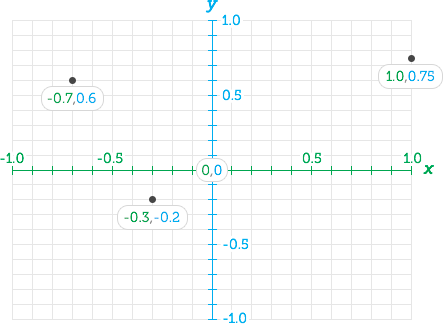
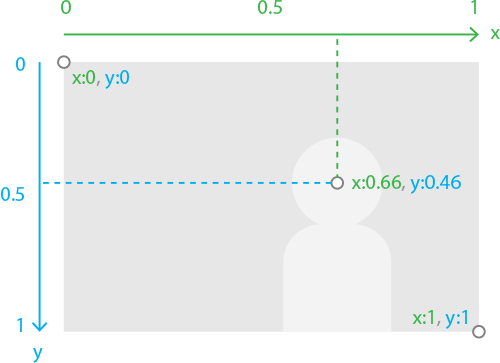
Updated docs, tweaked settings

diff --git a/js/jquery.focuspoint.min.js b/js/jquery.focuspoint.min.js
@@ -5,4 +5,4 @@
  * Copyright (c) 2014 - 2016 J. Menz; MIT License
  * @preserve
  */
-!function($,i,t,s){function e(i,t){this.element=i,this.settings=$.extend({},a,t),this.init()}var a={reCalcOnWindowResize:!0,setTransformOrigin:!0,gridOrigin:"left-top"},o=$(),n=17,c=function(i,t){var s=!1;return function(){var e=Array.prototype.slice.call(arguments,0);return s?!1:(s=!0,void setTimeout(function(){s=!1,i.apply(null,e)},t))}},r=function(){$(i).off("resize.focuspoint"),o.length&&(n>0?$(i).on("resize.focuspoint",c(function(){o.focusPoint("adjustFocus")},n)):$(i).on("resize.focuspoint",function(){o.focusPoint("adjustFocus")}))},h=function(i,t){return i-t};$.extend(e.prototype,{init:function(){if(this.$el=$(this.element),this.$image=this.$el.find("img").first(),this.imageW=this.$el.data("imageW"),this.imageH=this.$el.data("imageH"),this.imageRatio=this.imageW/this.imageH,!this.imageW&&!this.imageH)return this.resolveImageSize();var i=this;if($.each(["X","Y"],function(t,s){i["focus"+s]=String(i.$el.data("focus"+s)).split(","),$.each(i["focus"+s],function(t,e){i["focus"+s][t]=parseFloat(e.trim()),"center"===i.settings.gridOrigin&&("X"===s?i["focus"+s][t]=.5*(i["focus"+s][t]+1):i["focus"+s][t]=(i["focus"+s][t]-1)*-.5)}),i["focus"+s].length>1?(i["focus"+s].sort(h),i["focus"+s+"MinStart"]=i["focus"+s][0],i["focus"+s+"MinStop"]=i["focus"+s][1],i["focus"+s]=(i["focus"+s][0]+i["focus"+s][1])/2):i["focus"+s+"MinStart"]=i["focus"+s+"MinStop"]=i["focus"+s]=i["focus"+s][0],i["maxScaleRatio"+s]=1/(i["focus"+s+"MinStop"]-i["focus"+s+"MinStart"])}),this.settings.setTransformOrigin){var t=100*i.focusX+"% "+100*i.focusY+"%";this.$image.css({"webkit-transform-origin":t,"transform-origin":t})}this.$el.addClass("focuspoint-active"),this.adjustFocus(),this.settings.reCalcOnWindowResize&&this.windowOn()},resolveImageSize:function(){if(this.triedAutoResolution)return!1;this.triedAutoResolution=!0;var i=this.$el;$("<img />").one("load",function(){i.data("imageW",this.width),i.data("imageH",this.height),i.focusPoint("init")}).attr("src",this.$image.attr("src"))},windowOn:function(){o=o.add(this.element),r()},windowOff:function(){o=o.not(this.element),r()},setThrottleDuration:function(i){n=i,r()},adjustFocus:function(){var i={},t=!1;return i.containerW=this.$el.width(),i.containerH=this.$el.height(),i.containerW>0&&i.containerH>0&&this.imageW>0&&this.imageH>0?(i.containerRatio=i.containerW/i.containerH,i.scale=1,i.shiftPrimary=0,i.shiftSecondary=0,i.clippingAxis=!1,i.axisScale={X:this.imageRatio/i.containerRatio,Y:i.containerRatio/this.imageRatio},this.imageRatio>i.containerRatio?t=i.clippingAxis="X":this.imageRatio<i.containerRatio&&(t=i.clippingAxis="Y"),void(t?(this["maxScaleRatio"+t]&&i.axisScale[t]>this["maxScaleRatio"+t]?(i.scale=this["maxScaleRatio"+t]/i.axisScale[t],i.shiftSecondary=50*(1-i.scale)+"%",i.shiftPrimary=-100*this["focus"+t+"MinStart"]*i.axisScale[t]*i.scale+"%"):(i.shiftPrimary=.5-this["focus"+t]*i.axisScale[t],i.spareNeg=-1*(i.axisScale[t]-1),i.shiftPrimary>0?i.shiftPrimary=0:i.shiftPrimary<0&&i.shiftPrimary<i.spareNeg&&(i.shiftPrimary=i.spareNeg),i.shiftPrimary=100*i.shiftPrimary+"%"),this.$image.css("X"===t?"width":"height",i.axisScale[t]*i.scale*100+"%"),this.$image.css("X"===t?"height":"width",100*i.scale+"%"),this.$image.css("X"===t?"left":"top",i.shiftPrimary),this.$image.css("X"===t?"top":"left",i.shiftSecondary)):this.$image.css({width:"100%",height:"100%",left:0,top:0}))):!1}}),$.fn.focusPoint=function(i){return this.each(function(){$.data(this,"focusPoint")||$.data(this,"focusPoint",new e(this,i))}),"string"==typeof i?this.each(function(){var t=$(this);t.data("focusPoint")[i]()}):this}}(jQuery,window,document);
+!function($,i,t,s){function e(i,t){this.element=i,this.settings=$.extend({},a,t),this.init()}var a={reCalcOnWindowResize:!0,setTransformOrigin:!0,legacyGrid:!1},o=$(),n=17,c=function(i,t){var s=!1;return function(){var e=Array.prototype.slice.call(arguments,0);return s?!1:(s=!0,void setTimeout(function(){s=!1,i.apply(null,e)},t))}},r=function(){$(i).off("resize.focuspoint"),o.length&&(n>0?$(i).on("resize.focuspoint",c(function(){o.focusPoint("adjustFocus")},n)):$(i).on("resize.focuspoint",function(){o.focusPoint("adjustFocus")}))},h=function(i,t){return i-t};$.extend(e.prototype,{init:function(){if(this.settings.throttleDuration!==s&&this.setThrottleDuration(this.settings.throttleDuration),this.$el=$(this.element),this.$image=this.$el.find("img").first(),this.imageW=this.$el.data("imageW"),this.imageH=this.$el.data("imageH"),this.imageRatio=this.imageW/this.imageH,!this.imageW&&!this.imageH)return this.resolveImageSize();var i=this;if($.each(["X","Y"],function(t,s){i["focus"+s]=String(i.$el.data("focus"+s)).split(","),$.each(i["focus"+s],function(t,e){i["focus"+s][t]=parseFloat(e.trim()),i.settings.legacyGrid===!0&&("X"===s?i["focus"+s][t]=.5*(i["focus"+s][t]+1):i["focus"+s][t]=(i["focus"+s][t]-1)*-.5)}),i["focus"+s].length>1?(i["focus"+s].sort(h),i["focus"+s+"MinStart"]=i["focus"+s][0],i["focus"+s+"MinStop"]=i["focus"+s][1],i["focus"+s]=(i["focus"+s][0]+i["focus"+s][1])/2):i["focus"+s+"MinStart"]=i["focus"+s+"MinStop"]=i["focus"+s]=i["focus"+s][0],i["maxScaleRatio"+s]=1/(i["focus"+s+"MinStop"]-i["focus"+s+"MinStart"])}),this.settings.setTransformOrigin){var t=100*i.focusX+"% "+100*i.focusY+"%";this.$image.css({"webkit-transform-origin":t,"transform-origin":t})}this.$el.addClass("focuspoint-active"),this.adjustFocus(),this.settings.reCalcOnWindowResize&&this.windowOn()},resolveImageSize:function(){if(this.triedAutoResolution)return!1;this.triedAutoResolution=!0;var i=this.$el;$("<img />").one("load",function(){i.data("imageW",this.width),i.data("imageH",this.height),i.focusPoint("init")}).attr("src",this.$image.attr("src"))},windowOn:function(){o=o.add(this.element),r()},windowOff:function(){o=o.not(this.element),r()},setThrottleDuration:function(i){n=i,r()},adjustFocus:function(){var i={},t=!1;return i.containerW=this.$el.width(),i.containerH=this.$el.height(),i.containerW>0&&i.containerH>0&&this.imageW>0&&this.imageH>0?(i.containerRatio=i.containerW/i.containerH,i.scale=1,i.shiftPrimary=0,i.shiftSecondary=0,i.clippingAxis=!1,i.axisScale={X:this.imageRatio/i.containerRatio,Y:i.containerRatio/this.imageRatio},this.imageRatio>i.containerRatio?t=i.clippingAxis="X":this.imageRatio<i.containerRatio&&(t=i.clippingAxis="Y"),void(t?(this["maxScaleRatio"+t]&&i.axisScale[t]>this["maxScaleRatio"+t]?(i.scale=this["maxScaleRatio"+t]/i.axisScale[t],i.shiftSecondary=50*(1-i.scale)+"%",i.shiftPrimary=-100*this["focus"+t+"MinStart"]*i.axisScale[t]*i.scale+"%"):(i.shiftPrimary=.5-this["focus"+t]*i.axisScale[t],i.spareNeg=-1*(i.axisScale[t]-1),i.shiftPrimary>0?i.shiftPrimary=0:i.shiftPrimary<0&&i.shiftPrimary<i.spareNeg&&(i.shiftPrimary=i.spareNeg),i.shiftPrimary=100*i.shiftPrimary+"%"),this.$image.css("X"===t?"width":"height",i.axisScale[t]*i.scale*100+"%"),this.$image.css("X"===t?"height":"width",100*i.scale+"%"),this.$image.css("X"===t?"left":"top",i.shiftPrimary),this.$image.css("X"===t?"top":"left",i.shiftSecondary)):this.$image.css({width:"100%",height:"100%",left:0,top:0}))):!1}}),$.fn.focusPoint=function(i){return this.each(function(){$.data(this,"focusPoint")||$.data(this,"focusPoint",new e(this,i))}),"string"==typeof i?this.each(function(){var t=$(this);t.data("focusPoint")[i]()}):this}}(jQuery,window,document);

diff --git a/js/jquery.focuspoint.js b/js/jquery.focuspoint.js
@@ -10,10 +10,10 @@
 	var defaults = {
 		reCalcOnWindowResize: true,
 		setTransformOrigin: true,
-		gridOrigin: 'left-top' // 'center' or 'left-top'
+		legacyGrid: false
 	};
 	var $resizeElements = $(); // Which focuspoint containers are listening to resize event
-	var throttleDuration = 17; // ms - set to 0 to disable throttling
+	var throttleDuration = 17; // Same throttle duration for all containers (ms - set to 0 to disable throttling)
 
 	// Create a throttled version of a function
 	var throttle = function(fn, ms) {
@@ -63,6 +63,11 @@
 	// Avoid Plugin.prototype conflicts
 	$.extend(FocusPoint.prototype, {
 		init: function () {
+			// Pass through throttle rate if set
+			if (this.settings.throttleDuration !== undefined) {
+				this.setThrottleDuration(this.settings.throttleDuration);
+			}
+			
 			// Set up the values which won't change
 			this.$el = $(this.element);
 			this.$image = this.$el.find('img').first();
@@ -84,7 +89,7 @@
 				$.each(fp['focus' + axis], function( index, value ) {
 					fp['focus' + axis][index] = parseFloat(value.trim());
 					// Account for classic grid
-					if (fp.settings.gridOrigin === 'center') {
+					if (fp.settings.legacyGrid === true) {
 						if (axis === 'X') {
 							fp['focus' + axis][index] = (fp['focus' + axis][index] + 1)*0.5;
 						} 

diff --git a/demos/test/index.html b/demos/test/index.html
@@ -22,7 +22,7 @@
 					
 					//Activate test cases individually
 					$('#Default .focuspoint, #MissingWH .focuspoint, #Zoom .focuspoint, #MinRegion .focuspoint').focusPoint();
-					$('#LegacyGrid .focuspoint').focusPoint({gridOrigin: 'center'});
+					$('#LegacyGrid .focuspoint').focusPoint({legacyGrid: true});
 					$('#Zoom a').click(function(e){
 						e.preventDefault();
 						var scaleCSS = 'scale(' + $(this).data('scale') + ')';

diff --git a/README.md b/README.md
@@ -1,16 +1,14 @@
-# jQuery FocusPoint
+# jQuery FocusPoint 2
 
-ToDo: This needs updating!
+## Art direction for flexible image containers
 
-## Intelligent cropping for flexible image containers
-
-![image](demos/img/demo.jpg?raw=true)
+![image](demos/img/demo.jpg)
 
 Websites don't have a single layout any more. The space you have for an image may be portrait on a laptop, landscape on a tablet, and square on a mobile - particularly if you're using a full-screen image.
 
 If you have to use the same image file in all these contexts, you might not be happy with the results you get when you 'fill' the allocated space with your image. Your subject might be clipped or completely missing, or just really awkward looking.
 
-FocusPoint makes sure your image looks great in any container, by ensuring the 'spare' parts of your image (negative space) are cropped out before the important parts.
+FocusPoint makes sure your image looks great in any container, by ensuring the most important part of your image always stays within the frame.
 
 For a quick overview of the plugin check out this [video by Petr Tichy](http://youtu.be/Wxmxsw65BQw?t=6m49s).
 
@@ -35,11 +33,11 @@ FocusPoint requires you to indicate where this focal point is located within you
 
 #### 1. Calculate your image's focus point
 
-An image's focus point is made up of x (horizontal) and y (vertical) coordinates. The value of a coordinate can be a number with decimal points anywhere between -1 and +1, where 0 is the centre. X:-1 indicates the left edge of the image, x:1 the right edge. For the y axis, y:1 is the top edge and y:-1 is the bottom.
+An image's focus point is made up of `x` (horizontal) and `y` (vertical) coordinates. The value of a coordinate can be a decimal point number anywhere between `0` and `1` and works similar to positioning in CSS. On the `x` axis `0` means the left edge and `1` means the right, while on the `y` axis `0` means the top and `1` means the bottom. On both axes `0.5` indicates the center.
 
-![image](demos/img/grid.png?raw=true)
+![image](demos/img/grid.png)
 
-**Confused?** Don't worry, there's a handy script included to help you find the focus coordinates of an image with a single click. Check out the [helper tool](http://jonom.github.io/jquery-focuspoint/demos/helper/index.html) *(vastly improved courtesy of [@auginator](https://github.com/auginator)).*
+**Sound hard?** Don't worry, you can easily find the focus point coordinates of any image by using the [helper tool](http://jonom.github.io/jquery-focuspoint/demos/helper/index.html) *(courtesy of [@auginator](https://github.com/auginator)).*
 
 #### 2. Include javascript and CSS
 
@@ -58,7 +56,7 @@ Specify the image dimensions and focus point coordinates on the image container.
 ```html
 <div class="focuspoint"
 data-focus-x="0.331"
-data-focus-y="-0.224"
+data-focus-y="0.224"
 data-image-w="400"
 data-image-h="300">
 	<img src="image.jpg" alt="" />
@@ -84,9 +82,10 @@ FocusPoint comes with a few options you can change to suit your needs.
 
 | Option                 | Values                | Default | Description |
 | ---------------------- | --------------------- | ------- | ----------- |
-| `reCalcOnWindowResize` | `true` or `false`     | `true`  | Whether or not to re-adjust image when the window is resized |
-| `throttleDuration`     | Int e.g. `0` or `100` | `17`    | Throttling rate in milliseconds. Set to `0` to disable throttling. |
+| `reCalcOnWindowResize` | `true` or `false`     | `true`  | Whether or not to re-adjust image when the window is resized. |
+| `throttleDuration`     | Int e.g. `0` or `100` | `17`    | Throttling rate in milliseconds. Set to `0` to disable throttling. This is a global setting. |
 | `setTransformOrigin`   | `true` or `false`     | `true`  | Whether or not to set the images transform origin to match the focus point. This allows for easy zooming from the focus point with css transforms. |
+| `legacyGrid`   | `true` or `false`     | `false`  | Set to true to use FocusPoint v1 style coordinates and grid system. |
 
 Example usage:
 
@@ -104,9 +103,17 @@ Or the shorter way, like this: `$(someContainer).focusPoint('methodName')`
 
 | Function        | Description |
 | --------------- | ----------- |
-| `adjustFocus()` | Re-do calculations and re-position an image in it's frame. Call if container dimensions change. |
-| `windowOn()`    | Start window event listener and re-focus image when window is resized |
+| `adjustFocus()` | Re-do calculations and re-position an image in it's frame. Should be called when container dimensions change. |
+| `windowOn()`    | Start window event listener to automatically re-focus this image when window is resized |
 | `windowOff()`   | Stop re-focusing image when window is resized |
+
+## Advanced usage
+
+#### Minimum cropping region
+
+Suppose you have an image that looks okay in a square or portrait frame, but it really doesn't work in a landscape container, due to lack of vertical negative space in the image. In that case you might want the image to fill the frame for square or portrait aspect ratios, but only partially fill the frame in landscape ones. You can do this by specifying a minimum cropping region. All you need to do is pass two comma separated `x` coordinates and/or two `y` coordinates instead of one.
+
+![diagram of cropping region](demos/img/minimum-region.png)
 
 #### Using FocusPoint in content sliders
 
@@ -143,21 +150,3 @@ If FocusPoint helped you impress a client and you want to say thanks, you're wel
 Donations received / Warm fuzzies generated: **6**  
 Caffé Lattes funded: **17** :coffee: :relieved:  
 **Thanks!** Daniil, Cohan, Romulo, Lemuel, David
-
-## Changelog
-
-#### v1.1.1 2014-09-23
-Minor fixes
-#### v1.1.0 2014-09-18
-Refactored code (thanks @xat)  
-Added ability to start/stop window-resize listener (thanks @xat)  
-Use % instead of px for positioning, for better scaling  
-Added shortcuts to plugin methods
-#### v1.0.3 2014-09-06
-Throttled window resize updates
-#### v1.0.2 2014-09-05
-Made setting image width and height on shell optional (thanks @luruke)
-#### v1.0.1 2014-09-04
-Cleaned up variables
-#### v1.0.0 2014-08-19
-Initial release
